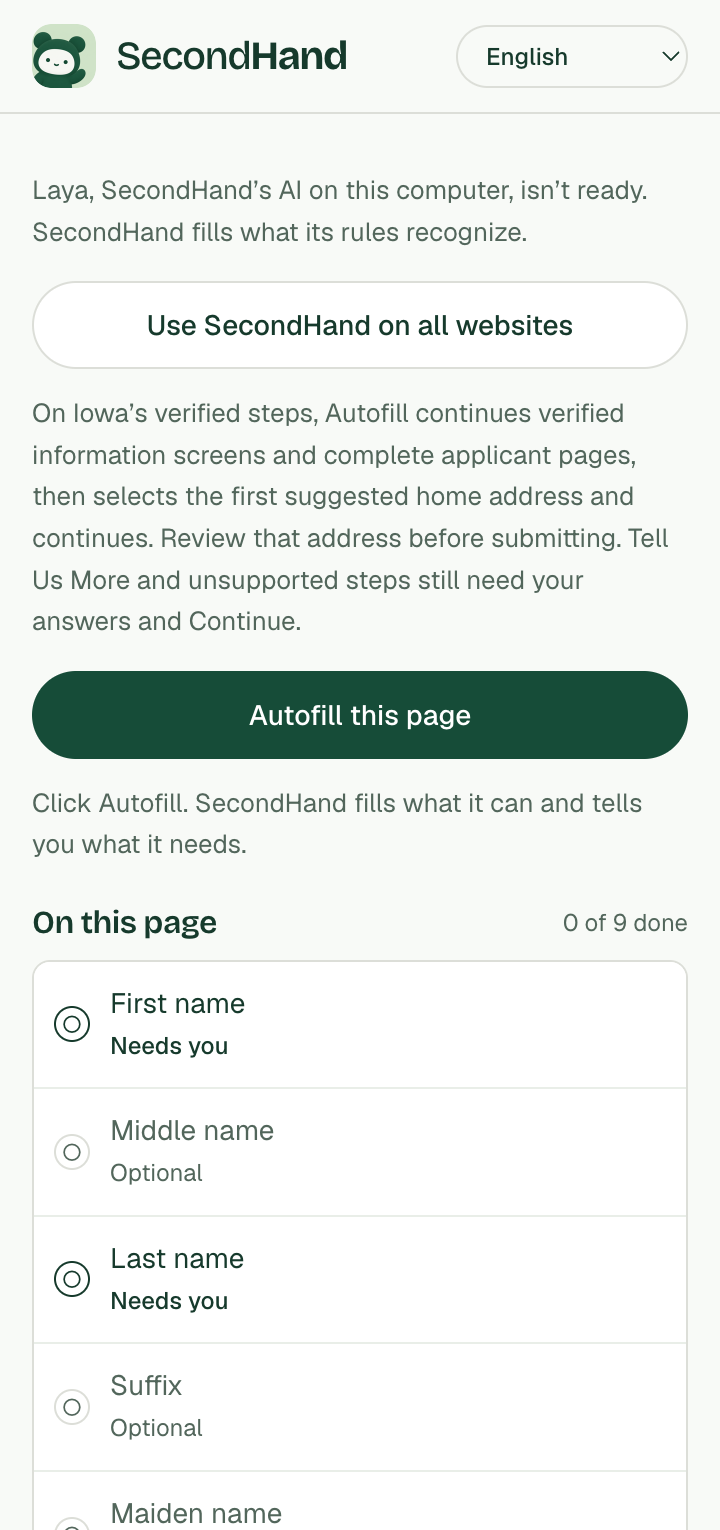
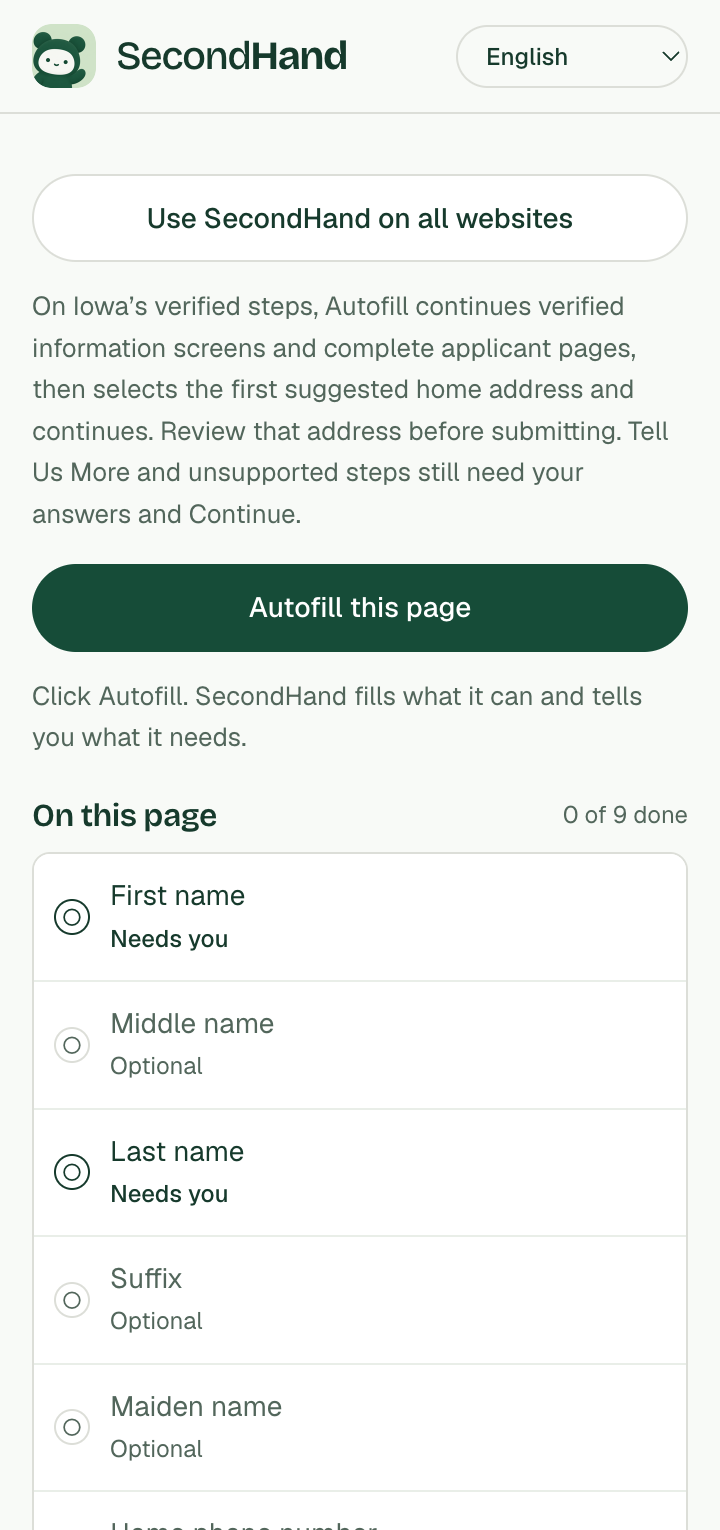
feat: show Laya's status only when it changes what gets filled
The side panel named Laya on every tab, including Iowa's form, where Laya is never used, and it announced when Laya was simply ready. It now speaks of Laya only on a site that is on, and only to say why Laya isn't guessing there: it is off, still downloading, or not ready. A fill's own result still names the guesses Laya made. The not-ready line says SecondHand fills only the questions it recognizes, without the word rules.

diff --git a/extension/strings.js b/extension/strings.js
@@ -97,10 +97,9 @@
     'desktop.didntOpenMac': 'SecondHand didn’t open. Open it from your Applications folder.',
     'desktop.didntOpenWindows': 'SecondHand didn’t open. Open it from the Start menu.',
     'desktop.didntOpen': 'SecondHand didn’t open. Open it on this computer.',
-    'desktop.layaReady': 'Laya, SecondHand’s AI on this computer, is ready. It fills questions the rules miss, marked as guesses to check.',
     'desktop.layaOff': 'Laya, SecondHand’s AI on this computer, is off. Turn it on in the SecondHand app to fill more questions.',
     'desktop.layaDownloading': 'Laya, SecondHand’s AI on this computer, is still downloading.',
-    'desktop.layaNotReady': 'Laya, SecondHand’s AI on this computer, isn’t ready. SecondHand fills what its rules recognize.',
+    'desktop.layaNotReady': 'Laya, SecondHand’s AI on this computer, isn’t ready. SecondHand fills only the questions it recognizes.',
 
     'checklist.complete': 'Done',
     'checklist.missing': 'Needs you',
@@ -421,10 +420,9 @@
     'desktop.didntOpenMac': 'SecondHand no se abrió. Ábralo desde la carpeta Aplicaciones.',
     'desktop.didntOpenWindows': 'SecondHand no se abrió. Ábralo desde el menú Inicio.',
     'desktop.didntOpen': 'SecondHand no se abrió. Ábralo en esta computadora.',
-    'desktop.layaReady': 'Laya, la IA de SecondHand en esta computadora, está lista. Completa las preguntas que las reglas no reconocen y las marca como suposiciones para revisar.',
     'desktop.layaOff': 'Laya, la IA de SecondHand en esta computadora, está apagada. Actívela en la aplicación SecondHand para completar más preguntas.',
     'desktop.layaDownloading': 'Laya, la IA de SecondHand en esta computadora, todavía se está descargando.',
-    'desktop.layaNotReady': 'Laya, la IA de SecondHand en esta computadora, no está lista. SecondHand completa lo que reconocen sus reglas.',
+    'desktop.layaNotReady': 'Laya, la IA de SecondHand en esta computadora, no está lista. SecondHand completa solo las preguntas que reconoce.',
 
     'checklist.complete': 'Listo',
     'checklist.missing': 'Falta su respuesta',
@@ -742,10 +740,9 @@
     'desktop.didntOpenMac': 'SecondHand chưa mở được. Hãy mở từ thư mục Ứng dụng.',
     'desktop.didntOpenWindows': 'SecondHand chưa mở được. Hãy mở từ menu Start.',
     'desktop.didntOpen': 'SecondHand chưa mở được. Hãy mở ứng dụng trên máy tính này.',
-    'desktop.layaReady': 'Laya, AI của SecondHand trên máy này, đã sẵn sàng. Laya điền các câu hỏi mà quy tắc bỏ sót và đánh dấu là đoán để bạn kiểm tra.',
     'desktop.layaOff': 'Laya, AI của SecondHand trên máy này, đang tắt. Hãy bật Laya trong ứng dụng SecondHand để điền thêm câu hỏi.',
     'desktop.layaDownloading': 'Laya, AI của SecondHand trên máy này, vẫn đang tải xuống.',
-    'desktop.layaNotReady': 'Laya, AI của SecondHand trên máy này, chưa sẵn sàng. SecondHand điền những gì các quy tắc nhận ra.',
+    'desktop.layaNotReady': 'Laya, AI của SecondHand trên máy này, chưa sẵn sàng. SecondHand chỉ điền những câu hỏi mà nó nhận ra.',
 
     'checklist.complete': 'Xong',
     'checklist.missing': 'Cần bạn',
@@ -1064,10 +1061,9 @@
     'desktop.didntOpenMac': 'SecondHand 未能打开。请从“应用程序”文件夹打开它。',
     'desktop.didntOpenWindows': 'SecondHand 未能打开。请从“开始”菜单打开它。',
     'desktop.didntOpen': 'SecondHand 未能打开。请在这台电脑上打开它。',
-    'desktop.layaReady': 'Laya（SecondHand 在本机上的 AI）已就绪。它会填写规则未识别的问题，并标记为推测，供您检查。',
     'desktop.layaOff': 'Laya（SecondHand 在本机上的 AI）已关闭。在 SecondHand 应用中开启它，即可填写更多问题。',
     'desktop.layaDownloading': 'Laya（SecondHand 在本机上的 AI）仍在下载。',
-    'desktop.layaNotReady': 'Laya（SecondHand 在本机上的 AI）尚未就绪。SecondHand 只填写其规则能识别的内容。',
+    'desktop.layaNotReady': 'Laya（SecondHand 在本机上的 AI）尚未就绪。SecondHand 只填写它能识别的问题。',
 
     'checklist.complete': '已完成',
     'checklist.missing': '需要您处理',
@@ -1386,10 +1382,9 @@
     'desktop.didntOpenMac': 'SecondHand ne s’est pas ouvert. Ouvrez-le depuis le dossier Applications.',
     'desktop.didntOpenWindows': 'SecondHand ne s’est pas ouvert. Ouvrez-le depuis le menu Démarrer.',
     'desktop.didntOpen': 'SecondHand ne s’est pas ouvert. Ouvrez-le sur cet ordinateur.',
-    'desktop.layaReady': 'Laya, l’IA de SecondHand sur cet ordinateur, est prête. Elle remplit les questions que les règles ne reconnaissent pas et les marque comme devinées, à vérifier.',
     'desktop.layaOff': 'Laya, l’IA de SecondHand sur cet ordinateur, est désactivée. Activez-la dans l’application SecondHand pour remplir plus de questions.',
     'desktop.layaDownloading': 'Laya, l’IA de SecondHand sur cet ordinateur, est encore en cours de téléchargement.',
-    'desktop.layaNotReady': 'Laya, l’IA de SecondHand sur cet ordinateur, n’est pas prête. SecondHand remplit ce que ses règles reconnaissent.',
+    'desktop.layaNotReady': 'Laya, l’IA de SecondHand sur cet ordinateur, n’est pas prête. SecondHand ne remplit que les questions qu’il reconnaît.',
 
     'checklist.complete': 'Fait',
     'checklist.missing': 'À faire',
@@ -1708,10 +1703,9 @@
     'desktop.didntOpenMac': 'لم يُفتح SecondHand. افتحه من مجلد التطبيقات.',
     'desktop.didntOpenWindows': 'لم يُفتح SecondHand. افتحه من قائمة ابدأ.',
     'desktop.didntOpen': 'لم يُفتح SecondHand. افتحه على هذا الكمبيوتر.',
-    'desktop.layaReady': 'Laya، الذكاء الاصطناعي الخاص بـ SecondHand على هذا الكمبيوتر، جاهز. يملأ الأسئلة التي لا تتعرف عليها القواعد ويعلّمها كتخمينات لتراجعها.',
     'desktop.layaOff': 'Laya، الذكاء الاصطناعي الخاص بـ SecondHand على هذا الكمبيوتر، متوقف. شغّله في تطبيق SecondHand لملء المزيد من الأسئلة.',
     'desktop.layaDownloading': 'Laya، الذكاء الاصطناعي الخاص بـ SecondHand على هذا الكمبيوتر، لا يزال قيد التنزيل.',
-    'desktop.layaNotReady': 'Laya، الذكاء الاصطناعي الخاص بـ SecondHand على هذا الكمبيوتر، غير جاهز. يملأ SecondHand ما تتعرف عليه قواعده.',
+    'desktop.layaNotReady': 'Laya، الذكاء الاصطناعي الخاص بـ SecondHand على هذا الكمبيوتر، غير جاهز. يملأ SecondHand الأسئلة التي يتعرف عليها فقط.',
 
     'checklist.complete': 'تم',
     'checklist.missing': 'بحاجة إليك',

diff --git a/extension/panel.js b/extension/panel.js
@@ -327,7 +327,7 @@
     let desktopRun = 0;
     const OPEN_CHECKS = 20;
     const OPEN_CHECK_MS = 1000;
-    // Whether Laya, the desktop's local AI, is ready: shown only while the desktop app answers.
+    // Why Laya, the desktop's local AI, isn't guessing: said only on a site that is on, where it would.
     let layaLine = null;
     // SecondHand updating itself (#85): the steps to do it by hand when the worker can't, as it last
     // said, and whether this is the first side panel since an update.
@@ -336,7 +336,7 @@
     const UPDATE_STEPS = { failed: 'panel.updateFailed', elsewhere: 'panel.updateElsewhere' };
     // The build the side panel last ran, in this extension's own storage (as the language choice is).
     const BUILD_KEY = 'secondhand.build';
-    const LAYA_LINES = { ready: 'desktop.layaReady', off: 'desktop.layaOff', downloading: 'desktop.layaDownloading',
+    const LAYA_LINES = { off: 'desktop.layaOff', downloading: 'desktop.layaDownloading',
       'not-downloaded': 'desktop.layaNotReady', error: 'desktop.layaNotReady', unavailable: 'desktop.layaNotReady' };
     // The question list for the page on screen: the worker's items, and Chrome's translations of their words.
     let questions = null;
@@ -373,8 +373,6 @@
       $('desktop-status').textContent = desktopLine ? words(desktopLine) : '';
       $('desktop-action').hidden = !desktopAction;
       $('desktop-action').textContent = desktopAction ? t(ACTIONS[desktopAction]) : '';
-      $('laya-status').hidden = !layaLine;
-      $('laya-status').textContent = layaLine ? words(layaLine) : '';
       const note = updateSteps ? { key: updateSteps } : updated ? { key: 'panel.updated' } : null;
       $('update-note').hidden = !note;
       $('update-note').textContent = note ? words(note) : '';
@@ -411,6 +409,10 @@
       $('all-sites-disable').hidden = allSites !== true || stopped;
       $('all-sites-disable').disabled = working;
       $('panel-autofill').hidden = off;
+      // Iowa's form is filled by its own rules: Laya only guesses on a site that is on.
+      const laya = layaLine && site?.enabled ? words(layaLine) : '';
+      $('laya-status').hidden = !laya;
+      $('laya-status').textContent = laya;
       $('panel-autofill').textContent = t(autopilot ? 'panel.stopAutofill' : 'panel.autofill');
       $('panel-autofill').disabled = !target || (!fillable && !autopilot) || working;
       document.querySelectorAll('.checklist-item').forEach(button => { button.disabled = working || !target; });
